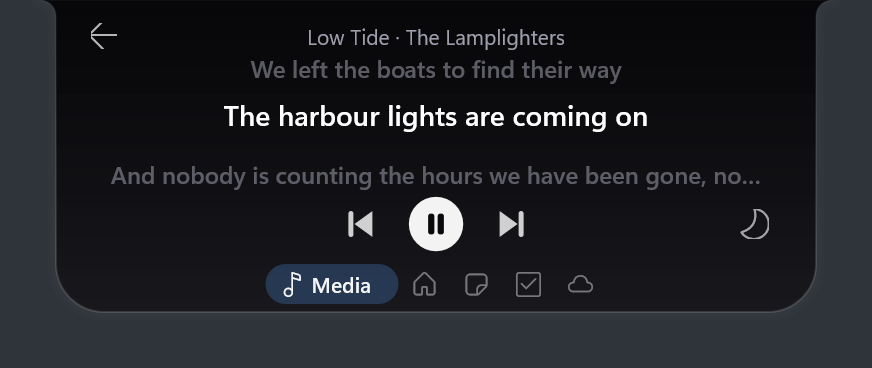
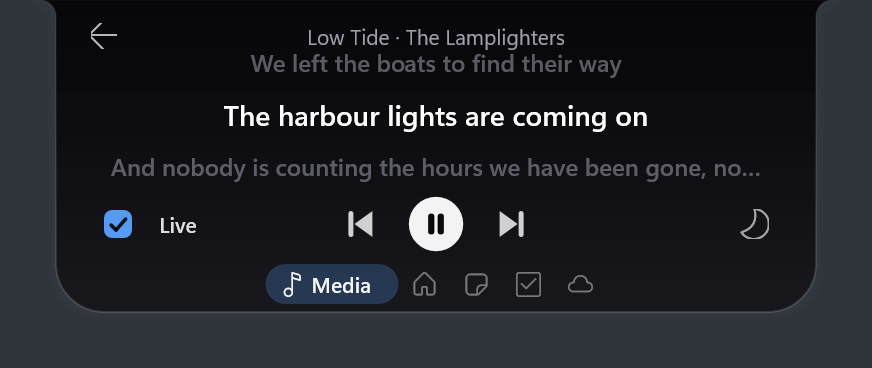
docs: panes in any order, the wider place search, Live lyrics, More settings; skin row in Look and feel; version 1.7.0

diff --git a/crates/hytte/src/render/settings_table.rs b/crates/hytte/src/render/settings_table.rs
@@ -304,6 +304,21 @@ pub fn settings_table(c: &Config) -> Vec<Section> {
                     0,
                 ),
                 (
+                    pick_s(
+                        "Pill skin",
+                        "general.skin",
+                        &[
+                            ("Graphite", "graphite"),
+                            ("Aurora", "aurora"),
+                            ("Ember", "ember"),
+                            ("Moss", "moss"),
+                            ("Dusk", "dusk"),
+                        ],
+                        &g.skin,
+                    ),
+                    -1,
+                ),
+                (
                     pick_i(
                         "Wait before opening on hover",
                         "general.hover_delay_ms",
@@ -451,21 +466,6 @@ pub fn settings_table(c: &Config) -> Vec<Section> {
                         g.finish_peek_secs as i64,
                     ),
                     1,
-                ),
-                (
-                    pick_s(
-                        "Pill skin",
-                        "general.skin",
-                        &[
-                            ("Graphite", "graphite"),
-                            ("Aurora", "aurora"),
-                            ("Ember", "ember"),
-                            ("Moss", "moss"),
-                            ("Dusk", "dusk"),
-                        ],
-                        &g.skin,
-                    ),
-                    -1,
                 ),
                 (
                     sw(

diff --git a/docs/06-ui-model.md b/docs/06-ui-model.md
@@ -21,6 +21,7 @@ Parts: **`UiEvent`** (worker → UI messages), **`Model`** (what the pill knows)
 | `Calendar(Option<NextEvent>)` | calendar watcher | `set_calendar`: arms the heads-up. |
 | `DragEnter` / `DragLeave` | OLE drop target | `drop_over`: the purple drop zone. |
 | `Places(seq, query, result)`, `Forecast(result)` | weather workers | `places_result` (dropped if the field no longer holds `query`, or `seq` is old), `forecast_result` (dropped for a place since changed). |
+| `WidePlaces(seq, query, result)` | wider place search | `wide_result`: kept in a small session cache; dropped if the field changed. |
 | `Lyrics(key, result)` | lyrics worker | `lyrics_result`: cached; shown only if `key` is still the song on screen. |
 
 ## `Model`: the state
@@ -40,16 +41,16 @@ Parts: **`UiEvent`** (worker → UI messages), **`Model`** (what the pill knows)
 | Notes and to-do | `jot` (the `jot::Store`), `jot_dirty` (the window layer saves), `typing: Option<Field>`, `note_edit` / `todo_edit` / `place_edit` (`textedit::TextEdit`), `note_keep`, `jot_edit` (an existing item being edited), `jot_undo`, `jot_first` |
 | Weather | `weather_place`, `forecast`, `weather_busy` / `weather_err` / `weather_retry`, `choosing`, `places`, `place_sel`, `places_busy` / `places_err` / `places_for`, `imperial` |
 | Focus and breaks | `held` (`Held` counts), `focus_summary`, `nudge` (`Nudge { kind, since }`); `holding()` is true while a Focus timer exists (paused too) |
-| Media extras | `sleep`, `sleep_open`, `lyrics_open`, `lyrics_on`, `lyric_key`, `lyric_state`, `lyric_cache` (last 20), `lyric_first` |
+| Media extras | `sleep`, `sleep_open`, `lyrics_open`, `lyrics_on`, `lyrics_still` (`[media] lyrics_live` off), `lyric_key`, `lyric_state`, `lyric_cache` (last 20), `lyric_first` |
 | Look | `skin` (`skin::Skin`), `panes` (`[panes]`) |
 
 `TaskView` is a task's display form: label, event, progress, stderr lines, pid, `attention` message, `source`, `cwd` (a `run` / `shell` task with a folder is `rerunnable()`), and instants `started`, `changed`, `visible_after`.
 
 ## Panels
 
-`Model::panels()` lists panels with content, **in order**: **Shelf** (not empty), **Media** (a session exists), **Home** (always: mic, sound, keep-awake, timer tiles and volume bar), **Notes**, **To-do** and **Weather** (each unless switched off in `[panes]`), **Tasks** (a visible task or a listening server, shown as **SERVERS**), **Timer** (running), **Power** (has a battery). With the three optional panes on, the tab strip always shows.
+`Model::panels()` lists panels with content, **in order**: **Shelf** (not empty), **Media** (a session exists), **Home** (mic, sound, keep-awake, timer tiles and volume bar), **Notes**, **To-do** and **Weather**, **Tasks** (a visible task or a listening server, shown as **SERVERS**), **Timer** (running), **Power** (has a battery). Every one has a switch in `[panes]` (`home`, `media`, `shelf`, `tasks`, `timer`, `power`, `notes`, `todo`, `weather`), and the result is sorted by `[panes] order` (`Panel::arranged`; panes the list does not name keep their usual place after those it does). The list is never empty: with everything off, Home stays. `move_pane` rewrites the order for the arrows in the settings window.
 
-- `panel()` is the selected panel if it still exists, else what the collapsed pill shows (Tasks if a task is visible, Media if music plays), else Home. Attention wins: a task that needs input or finishes `peek`s its pane, which selects it.
+- `panel()` is the selected panel if it still exists, else what the collapsed pill shows (Tasks if a task is visible, Media if music plays), else Home, else the first panel left when those are switched off. Attention wins: a task that needs input or finishes `peek`s its pane, which selects it.
 - `tabs()` is true with more than one panel (the tab strip is drawn only then). `step_panel(dir)` moves with wrap-around (sideways scroll, arrows).
 
 ## Choosing the scene
@@ -89,10 +90,10 @@ Parts: **`UiEvent`** (worker → UI messages), **`Model`** (what the pill knows)
 | `ExpShelf` | 380 × 118 (136 with a tile selected) |
 | `ExpTimer` | 380 × 96 running, 152 setup card |
 | `ExpDrop` / `ExpChip` / `ExpTimerDone` | 380 × 116 / 96 (80 for a one-line card) / 114 |
-| `ExpCharge` / `ExpSettings` | 300 × 52 / 380 × 216 (no tab strip) |
+| `ExpCharge` / `ExpSettings` | 300 × 52 / 380 × 252 (no tab strip) |
 | `ExpNudge` | 360 × 56 (no tab strip) |
 | `ExpNotes` / `ExpTodo` | 380 × (12 + 34 field + 8 + 30 per row shown, 1 to 4, plus one for the Undo row, + 8) + tab strip; the wheel scrolls longer lists (`JOT_ROWS` = 4) |
-| `ExpWeather` | 380 × 148 with a forecast, 120 while loading, `38 + 34 + 4 + 28 × suggestions + 8` for the place chooser, + tab strip |
+| `ExpWeather` | 380 × 148 with a forecast, 120 while loading, `38 + 34 + 4 + 28 × suggestions + 8` for the place chooser (one more row while "search more widely" is offered, 16 more under OpenStreetMap results), + tab strip |
 | `ExpTimerDone` with a focus summary | 380 × 134 instead of 114 |
 
 Panels that show the tab strip get `TAB_H` (24 px) more.
@@ -229,7 +230,7 @@ While `Model::holding()`, background alerts are counted in `Held` instead of sho
 
 `sleep::Sleep` is the pure timer (minutes, or end of track following the player's reports and firing when the song changes). `Ui::sleep_tick` starts `sleep::start_fade` in the last 20 seconds: a thread that lowers the player's own audio session volume once a second, pauses it with `media::Cmd::Pause`, and puts the volume back. `pick_exe` matches the media app id to an audio session by exe name. The original volume is written to `sleep-restore.txt` for the fade, so `sleep::recover` can restore it after a crash. The fade thread initialises COM itself.
 
-`lyrics.rs` parses LRC text and judges lrclib's answers against the song's length (timed lyrics within 3 s, words only within 10 s). `Model::lyrics_request` decides when to look up (page open, `[media] lyrics` on, a song, nothing known yet); `Ui::lyrics_tick` runs `lyrics::lookup` on a worker and `lyrics_result` caches the answer in memory.
+`lyrics.rs` parses LRC text and judges lrclib's answers against the song's length (timed lyrics within 3 s, words only within 10 s). With timed lyrics the page glides: the renderer takes the play position, eases the list from the previous line to the current one over 520 ms after the line starts, and cross-fades each line between the small and the large font by distance from the middle. It is computed from the position alone, so it needs no state and no frames beyond the Media pane's existing clock. `lyrics_still` (or no timed lyrics) shows the words as a plain list; `lyric_rows` says how many lines the wheel can scroll. `Model::lyrics_request` decides when to look up (page open, `[media] lyrics` on, a song, nothing known yet); `Ui::lyrics_tick` runs `lyrics::lookup` on a worker and `lyrics_result` caches the answer in memory.
 
 ## Skins
 

diff --git a/docs/07-window-and-input.md b/docs/07-window-and-input.md
@@ -59,7 +59,7 @@ Key methods: `layout()` (scene from the model; sets every spring target); `kick(
 | `WM_HOTKEY` | `hotkey`: enter or leave [keyboard mode](#keyboard). `monitor_hotkey` (id 2): `Ui::next_monitor`. |
 | `WM_KEYDOWN` / `WM_KILLFOCUS` | Keyboard mode keys (Esc, Left/Right, Tab, Enter/Space) / ends keyboard mode (and typing) without taking focus back. While a text field has focus, `WM_KEYDOWN` goes to `Ui::typing_key` instead. |
 | `WM_CHAR` | A typed character (UTF-16 unit; an emoji arrives as two) into the focused text field, via `Ui::type_char`. |
-| `WM_MOUSEWHEEL` | Over the volume bar or **Sound** tile: volume, 2 % a notch. Over an app's bar: that app. Over the shelf row: scrolls a tile per notch. Over a task list with more rows than `task_rows`: a row per notch (at either end the wheel pages again). On the timer card: minutes. Otherwise a mouse wheel (whole 120 notches) pages the panes (down = next), not while the settings pane is open. A precision touchpad's vertical scroll (fractional deltas, as do free-spin wheels) does nothing there, so a two-finger scroll can't flip panes. |
+| `WM_MOUSEWHEEL` | Over the volume bar or **Sound** tile: volume, 2 % a notch. Over an app's bar: that app. Over the shelf row: scrolls a tile per notch. Over a task list with more rows than `task_rows`: a row per notch (at either end the wheel pages again). On the timer card: minutes. Otherwise a mouse wheel (whole 120 notches) pages the panes (down = next), not while the settings pane is open. A precision touchpad's vertical scroll (fractional deltas, as do free-spin wheels) does nothing there, so a two-finger scroll can't flip panes. On the lyrics page a notch moves a line, and a touchpad needs 600 units of scroll per line (`Ui::lyric_wheel`) so its stream of small deltas and its coasting don't fling the page. |
 | `WM_MOUSEHWHEEL` | Touchpad swipe or tilt wheel: next pane right, previous left, one per swipe; a collapsed pill peeks 3 s. |
 | `WM_SETCURSOR` | Hand cursor over clickable regions. |
 | `WM_LBUTTONDOWN` | On a shelf tile: remember it, capture the mouse for a drag. On the volume bar or timeline: set there and capture for dragging (`scrub`). |
@@ -91,11 +91,12 @@ All are one-shot Win32 timers (the handler kills the timer first).
 | `T_COLLAPSE` | `collapse_delay_ms` (300) | Pointer leaves while open | If still outside and not pinned: `hover = false`, timer card and settings pane close, `start_panel` applied. Re-entering in time cancels it. |
 | `T_EXPIRE` | Until the model's next deadline | After every model change | `after_model_change` (calls `Model::expire`). |
 | `T_TIMER` | ≤ 1 s | Countdown timer running | Redraws the fuse; fires the timer at zero. |
-| `T_FS` | 150 ms | Foreground change or move | Follows the monitor, re-evaluates fullscreen, re-asserts topmost (not over a game), follows the virtual desktop. |
+| `T_FS` | 150 ms | Foreground change or move | Follows the monitor, re-evaluates fullscreen (not while Hytte holds focus for typing or keyboard mode: Hytte in front says nothing about the app under it, and reading it as "no fullscreen" used to collapse the pill under the click), re-asserts topmost (not over a game), follows the virtual desktop. |
 | `T_TRIM` | 30 s | A frame finds nothing moving | If still settled, trims the working set ([section 12](12-performance.md)). |
 | `T_GPU` | 1 s doubling to 30 s | GPU rebuild failed | Retries `rebuild_gpu` ([section 8](08-rendering-and-animation.md#the-gpu-renderer)). |
 | `T_CARET` | 530 ms | A text field takes focus, and after every blink | Toggles the caret and re-arms, while a field has focus; otherwise leaves it shown and stops. |
 | `T_PLACE` | 250 ms | The weather place field changed | Runs the place search for what is typed (`Ui::place_search`). |
+| `T_WIDE` | 2 s | Open-Meteo answered a place search with nothing | Offers "search more widely" (`Ui::wide_offer_due`) if the field still holds that text. Typing cancels it. |
 | `T_SHOT` | 60 ms while a screenshot awaits Ctrl+V (`delete_after_paste`, ≤ 10 min), else 1 s while screenshots are on the shelf and `screenshot_secs` ≠ 0 | A screenshot was shelved | `Ui::tick_shots`: removes expired and pasted screenshots; re-arms while any is pending. |
 
 ## Clicks and actions
@@ -116,7 +117,8 @@ While drawing, the renderer records **hit regions** (`Hit { rect, action }`, [se
 | `TimerMinutes`, `TimerNudge`, `TimerStart`, `TimerBreak`, `TimerAdd`, `TimerPause`, `TimerStop`, `TimerDismiss` | Timer controls (preset, − / +, start timer or focus, offered break, **+5** (on the finished card, a new 5 min timer), ring pause/resume, Stop, Stop alarm / Dismiss). Changes to a running timer save to `timer.json`. |
 | `SetPowerMode` | Sets the Windows power mode. |
 | `Field(f)`, `NoteKeep`, `ToggleJot`, `EditJot`, `KeepJot`, `DeleteJot`, `UndoJot` | Focus a text field and place the caret / the 24 h / Keep switch / tick a to-do / edit an item in the field / keep a temporary note / delete (Undo for 6 s). |
-| `PickPlace`, `ChangePlace`, `CancelPlace`, `RetryWeather` | Weather: choose a suggestion, open the chooser, close it, fetch again. |
+| `PickPlace`, `ChangePlace`, `CancelPlace`, `RetryWeather`, `SearchWide` | Weather: choose a suggestion, open the chooser, close it, fetch again, run the OpenStreetMap search the user asked for. |
+| `PaneMove(key, ±1)` | Settings window only: move a pane in `[panes] order` (written with `config::set_text`). |
 | `NudgeSnooze`, `NudgeSkip` | Break reminder: ten minutes later / done. |
 | `SleepMenu`, `SleepSet`, `SleepCancel`, `LyricsOpen`, `LyricsClose`, `LyricsRetry` | The Media pane's sleep timer chips and lyrics page. |
 

diff --git a/README.md b/README.md
@@ -25,13 +25,14 @@ It never steals focus, idles at almost no CPU, and uses under 20 MB of RAM. It i
 - **Shows dev servers.** Anything on `localhost:3000`, `5173`, `8080` and friends appears with **Open**, **Stop** and, for servers started from a tracked command, **Restart**.
 - **Holds files (the shelf).** Drop files or text on the pill, switch windows, drag them back out. Win+Shift+S screenshots land there too.
 - **Quick file actions.** Shrink an image, make a PDF, strip location data, OCR, tidy JSON, decode a JWT, timestamp, base64, URL or hex colour, make a QR code.
-- **Controls music**, with a draggable timeline, lyrics and a sleep timer ("stop playing in 30 min") that fades the volume out.
+- **Controls music**, with a draggable timeline, lyrics that glide line by line (a **Live** tick box turns that off) and a sleep timer ("stop playing in 30 min") that fades the volume out.
 - **Quick controls.** Mute all microphones (red lock on the pill), mute speakers, keep the PC awake, per-app volume.
 - **Timer and focus sessions.** Countdown or Pomodoro. A focus session turns on Windows Do Not Disturb, holds Hytte's own alerts and tells you what you missed in one line; collapsed, it shows as a thin line along the pill.
 - **Notes and a to-do list.** Type something and press Enter; a note lasts 24 hours or is kept. A hotkey opens Notes with the cursor ready.
-- **Weather.** Pick a town (suggestions as you type) and see now plus the next hours. Nothing is fetched while the pane is closed.
+- **Weather.** Pick a town (suggestions as you type; if none match, one click searches OpenStreetMap) and see now plus the next hours. Nothing is fetched while the pane is closed.
 - **Break reminders.** Eyes (20-20-20), stretch and water nudges as a small card on the pill, never a popup, and never in a meeting, a game or a focus session.
-- **Skins.** Five colour themes for the pill.
+- **Skins.** Five colour themes for the pill (Settings → Look and feel).
+- **Your panes, your order.** Switch any pane off and arrange the tab strip in Settings → Panes.
 - **Alerts.** Browser downloads, runaway CPU or memory hogs (**Kill** / **Ignore**), your next meeting (optional, **Join** button), camera and mic dots, battery and power mode on laptops.
 - **Gets out of the way.** A game or fullscreen app makes it vanish and stop touching input (no FPS cost). A maximised or snapped window, or fullscreen video, shrinks it to a hairline.
 - **Safe to share.** One setting (`hide_from_capture`) keeps it out of screenshots, recordings and calls, and tokens or passwords in a command show as `•••`. New installs show the pill in screenshots; installs from before 1.7 keep whatever they had.
@@ -205,15 +206,23 @@ show_all = false
 enabled = false           # off by default: event titles are private
 
 [panes]
-notes = true              # tabs in the pill; switch any off
+home = true               # tabs in the pill; switch any off
+media = true
+shelf = true
+tasks = true
+timer = true
+power = true
+notes = true
 todo = true
 weather = true
+order = ""                # set by the arrows in Settings → Panes
 
 [weather]
 units = "auto"            # "auto" (follow Windows), "metric" or "imperial"
 
 [media]
 lyrics = false            # looks songs up on lrclib.net (sends title and artist)
+lyrics_live = true        # follow the song line by line when the lyrics are timed
 
 [breaks]
 eyes_min = 0              # minutes between reminders; 0 = off

diff --git a/docs/13-testing-and-release.md b/docs/13-testing-and-release.md
@@ -23,7 +23,7 @@ Off Windows see [section 2](02-getting-started.md#working-from-macos-or-linux): 
 | `hog.rs`, `downloads.rs`, `calendar.rs`, `power.rs`, `proc.rs`, `media.rs`, `privacy.rs` | CPU-over-time and once-only alerts; Chrome and Firefox partial-file sequences and cancels; meeting links (lookalike hosts refused), next-event choice; safe reads and text; app ids; art decoding; key → app name. |
 | `window/win.rs` | `paste_step`, the decision behind delete-screenshot-after-paste (grace period, cancel on other copy, held Ctrl+V, none in game mode, ten-minute limit). |
 
-New in 1.7.0: `textedit` (caret, selection, joined emoji), `jot` (expiry, undo, a damaged file), `weather` (parsers on sample replies, every weather code), `net` (encoding), `lyrics` (LRC, replies, a different master), `sleep` (the timer, finding the player, the fade curve), `breaks` (every reminder rule), `skin`, `dnd` (the marker text) and the new `ui_state` tests (holds, nudges, lyrics requests, panes). The ignored tests `dnd::real_switch_round_trips`, `sleep::manual_sessions` and `sleep::manual_fade` use the real Windows setting, audio sessions and a real player (`HYTTE_SLEEP_APP=Spotify.exe`). Snapshot tests `jot_snapshots`, `weather_snapshots`, `focus_snapshots`, `media_snapshots` and `skin_snapshots` draw the new panes in every state.
+New in 2.0.0 (the panes release): `textedit` (caret, selection, joined emoji), `jot` (expiry, undo, a damaged file), `weather` (parsers on sample replies, every weather code), `net` (encoding), `lyrics` (LRC, replies, a different master), `sleep` (the timer, finding the player, the fade curve), `breaks` (every reminder rule), `skin`, `dnd` (the marker text) and the new `ui_state` tests (holds, nudges, lyrics requests, panes, pane order, the wider place search). The ignored test `weather::wide_finds_sri_city` asks OpenStreetMap for a place Open-Meteo lacks. The ignored tests `dnd::real_switch_round_trips`, `sleep::manual_sessions` and `sleep::manual_fade` use the real Windows setting, audio sessions and a real player (`HYTTE_SLEEP_APP=Spotify.exe`). Snapshot tests `jot_snapshots`, `weather_snapshots`, `focus_snapshots`, `media_snapshots` and `skin_snapshots` draw the new panes in every state.
 
 Ignored tests (run with `-- --ignored`): `render/snap.rs` draws the scenes offscreen (WARP, 200 %, both themes where it matters) into PNGs plus an `index.html` contact sheet, for checking UI changes without running the pill: `HYTTE_SNAP_DIR=<dir> cargo test -p hytte snapshots -- --ignored` (also runs `settings_window_snapshots`; the screenshots in `docs/img` come from these). Normal tests there check every settings-table row writes a key `config.toml` accepts, no key appears twice, and every reset reads back as the default. Manual tests: `mic` (`lists_live_apps`, and `mute_change_wakes_the_watcher`, which flips the real mute and restores it), `calendar_manual_create` / `_dump` / `_delete` (a throw-away calendar), `tabs` (`HYTTE_WT_PID=<pid> cargo test -p hytte selects_other_tab -- --ignored`, needs Windows Terminal with two tabs).
 

diff --git a/manual/06-everyday-tools.md b/manual/06-everyday-tools.md
@@ -39,7 +39,9 @@ When it ends, an alarm rings for up to two minutes. Choose **Stop alarm** or **+
 
 **Lyrics.** Click **Lyrics** on the Media pane. The page shows the line being sung with the line before and after. They are off until you turn them on (the page has a **Turn on** button, and there is a switch in [Settings](07-settings.md)), because looking a song up sends its title and artist to [lrclib.net](https://lrclib.net), a free lyrics database. Nothing is looked up unless the page is open, and Hytte keeps lyrics only in memory, for the last 20 songs.
 
-If the database has the words but for a different recording of the song, you see them without timing, scrolling with the mouse wheel.
+With timed lyrics the lines glide smoothly from one to the next. The **Live** tick box at the bottom left turns that off, so you see the words to scroll through instead (the choice is kept; it is `[media] lyrics_live`). **Live** is greyed out and does nothing for songs that have no timed lyrics.
+
+If the database has the words but for a different recording of the song, you see them without timing, scrolling with the mouse wheel. A touchpad moves one line per long stretch of two-finger scroll, so the page doesn't fly past.
 
 **Sleep timer.** Click the moon, then pick 15, 30, 45 or 60 minutes, or **End of track**. In the last 20 seconds the volume of that player fades out, then it pauses, then its volume is put back, so tomorrow's first song isn't silent. Pausing yourself doesn't cancel it. Click the moon again to cancel. Closing Hytte forgets the timer.
 
@@ -74,6 +76,10 @@ The same field adds a to-do. Click the box to tick it: it moves to the bottom an
 <img src="../docs/img/weather.png" alt="The Weather pane" width="300"> <img src="../docs/img/weather-ask.png" alt="Choosing a place" width="300">
 
 The first time, the pane asks where to check. Type a town and suggestions appear as you type; use the arrow keys and **Enter**, or click one. You then see the temperature now, today's high and low, and the next five hours. Click the town's name to choose another place.
+
+Not finding your town? If nothing matches for about two seconds, a row appears: **Search more widely for "your town"**. Click it (or press **Enter**) and Hytte asks [OpenStreetMap](https://www.openstreetmap.org) once, which knows many smaller places. Its answers are listed with a credit line, and the same search isn't repeated in a session. Nothing is sent to OpenStreetMap unless you click.
+
+<img src="../docs/img/weather-wide.png" alt="The search more widely row" width="300">
 
 Weather is fetched only when you open the pane and what Hytte has is over 30 minutes old, so a closed pill makes no requests. It comes from [Open-Meteo](https://open-meteo.com) (free for non-commercial use, which is why the pane credits it). Searching sends what you type to Open-Meteo; the forecast sends the town's coordinates. Hytte keeps your place in `place.json` and asks Windows for nothing. Temperatures follow your Windows measurement setting, or `[weather] units`.
 

diff --git a/docs/09-workers.md b/docs/09-workers.md
@@ -19,7 +19,7 @@ Each worker watches one part of the system and reports changes to the UI thread 
 | Config | `config.rs` | Directory change notification | `Config` ([section 11](11-configuration-and-files.md#live-reload)) |
 | Terminal tabs | `tabs.rs` | Command channel | none (answers commands) |
 | Thumbnails | `shelf.rs` | One short-lived thread per tile | `Thumb` |
-| Place search, forecast | `weather.rs` | One short-lived thread per request, only while the Weather pane is showing | `Places`, `Forecast` |
+| Place search, forecast | `weather.rs` | One short-lived thread per request, only while the Weather pane is showing | `Places`, `WidePlaces`, `Forecast` |
 | Lyrics | `lyrics.rs` | One short-lived thread per song, only with the lyrics page open | `Lyrics` |
 | Sleep fade | `sleep.rs` | One thread from the fade's start to the pause (≤ 20 s) | none |
 
@@ -121,7 +121,7 @@ For each visible shelf tile without one, `Ui::request_thumbs` starts a short-liv
 
 `net::fetch(url, out, secs, max_bytes)` runs System32's `curl.exe` by absolute path (no HTTP stack is linked), HTTPS only in release builds, with a User-Agent of `hytte/<version>`; the updater, the weather and the lyrics all use it. `net::encode` percent-encodes query values as UTF-8.
 
-**Weather** uses Open-Meteo's geocoding and forecast endpoints (free for non-commercial use, CC BY 4.0, which is why the pane credits it). Nothing runs while the pane is closed. **Lyrics** use lrclib.net: `/api/get` with title, artist, album and length, then with title and artist alone, then `/api/search`. A 404 is "no such song"; any other failure is "can't reach".
+**Weather** uses Open-Meteo's geocoding and forecast endpoints (free for non-commercial use, CC BY 4.0, which is why the pane credits it). Nothing runs while the pane is closed. **The wider place search** uses OpenStreetMap's Nominatim (`weather::fetch_wide`, ODbL, credited under its results). Its usage policy forbids search-as-you-type, so it runs only when the user clicks or presses Enter on the "search more widely" row, which appears two seconds after Open-Meteo found nothing; answers are cached for the session, and the User-Agent names the app. **Lyrics** use lrclib.net: `/api/get` with title, artist, album and length, then with title and artist alone, then `/api/search`. A 404 is "no such song"; any other failure is "can't reach".
 
 ## The sleep fade (`sleep.rs`)
 

diff --git a/manual/07-settings.md b/manual/07-settings.md
@@ -2,18 +2,22 @@
 
 ## The settings pane
 
-Click the **gear** on the Home pane. The pane covers the common settings, such as theme, opacity, glow and feature switches.
+Click the **gear** on the Home pane (or, if you have hidden Home, the tray icon → **Settings…**). The pane covers the common settings, such as theme, opacity, glow and feature switches. The blue **More settings** button at its bottom opens the full window.
 
 <img src="../docs/img/settings-pane.png" alt="The settings pane inside the pill" width="420">
 
 ## The settings window
 
-The button at the top right of the pane opens the full window. It has every switch and slider.
+The **More settings** button on the settings pane opens the full window; so does tray → **Settings…**. It has every switch and slider.
 
 - **Type** to search.
 - **Rest the pointer** on a setting for an explanation.
 - **Custom** opens `config.toml` at that setting, for a value the presets don't have.
 - **↺** puts a changed setting back to its default.
+
+### Choosing and ordering panes
+
+The **Panes** section lists every pane: Quick controls, Music, Shelf, Terminal tasks, Timer, Battery, Notes, To-do and Weather. Each has a switch, and the **▲ ▼** buttons move it along the tab strip. Panes that only appear when they have something to show (Music, Shelf, Timer, Battery, Terminal tasks) keep their place in the order for when they do. If you switch everything off, the Quick controls stay so the pill is never empty.
 
 <img src="../docs/img/settings-window.png" alt="The settings window" width="560">
 
@@ -53,15 +57,23 @@ show_all = false
 enabled = false           # off by default: event titles are private
 
 [panes]
-notes = true              # switch a pane's tab off here
+home = true               # switch any pane's tab off here
+media = true
+shelf = true
+tasks = true
+timer = true
+power = true
+notes = true
 todo = true
 weather = true
+order = ""                # tab order, set by the arrows in the settings window
 
 [weather]
 units = "auto"            # "auto" (follow Windows), "metric" or "imperial"
 
 [media]
 lyrics = false            # looks songs up on lrclib.net
+lyrics_live = true        # follow the song line by line when the lyrics are timed
 
 [breaks]
 eyes_min = 0              # minutes between reminders; 0 = off

diff --git a/docs/16-whats-new.md b/docs/16-whats-new.md
@@ -2,7 +2,27 @@
 
 What changed in each version, newest first. Each version ends with a short note for people who change Hytte.
 
-## 1.7.0
+## 2.0.0
+
+This is the panes release. It carries everything that was planned as 1.7 (that number was never released), so it also includes the 1.6.1 change that releases are no longer signed.
+
+**Choosing and ordering panes**
+
+- **Every pane has a switch and a place.** `[panes]` now has `home`, `media`, `shelf`, `tasks`, `timer` and `power` besides `notes`, `todo` and `weather`, and the settings window's **Panes** section lists all nine with **▲ ▼** to put them in your order (`[panes] order`). The tab strip never empties: with everything off, the quick controls stay.
+- **The Pill skin row moved to Look and feel** (it was hidden under Behaviour).
+- **Tray → Settings…** opens the settings window, so hiding the Home pane never hides the settings.
+- **The settings pane has a clear blue "More settings" button** that opens the settings window, instead of an icon nobody read as that. The window's search box now shows that it has focus (border and caret).
+
+**Weather and lyrics, refined**
+
+- **Search more widely.** If Open-Meteo finds nothing for two seconds, a row offers an OpenStreetMap search, run once when you click it, credited, and cached for the session. It finds places such as Sri City that Open-Meteo lacks.
+- **Live lyrics glide** from line to line instead of switching. A **Live** tick box (`[media] lyrics_live`) turns that off for a scrolling list, and it is greyed out for songs without timed lyrics. Touchpad scrolling on the lyrics page is slower and steadier.
+
+**Fixed**
+
+- **Typing in Notes or To-do over a fullscreen or maximised app no longer collapses the pill.** Hytte taking focus made the fullscreen check think no app was fullscreen; the check now waits until focus is handed back.
+
+**The first panes build**
 
 **New panes**
 

diff --git a/docs/12-performance.md b/docs/12-performance.md
@@ -6,10 +6,10 @@ Hytte runs all day beside everything else, so idle cost matters more than peak s
 
 | Budget | Target | Last measured (1.6.0 release build, default settings, fresh data folder; frame cost from 1.3.0) |
 |---|---|---|
-| Idle CPU, collapsed, nothing playing | < 1 % | ≈ 0.26 % of one core (78 ms CPU in 30 s, after 45 s settling), 0.36 % with a Focus session running (109 ms); 1.7.0 with every feature on, 120 stored notes, a skin and all three break reminders enabled |
-| Idle memory | < 30 MB goal, 100 MB ceiling | ≈ 10.1 MB private bytes; working set ≈ 5.7 MB after the trim; 32 threads, ~404 handles (1.7.0, same setup) |
+| Idle CPU, collapsed, nothing playing | < 1 % | ≈ 0.26 % of one core (78 ms CPU in 30 s, after 45 s settling), 0.36 % with a Focus session running (109 ms); 2.0.0 with every feature on, 120 stored notes, a skin and all three break reminders enabled |
+| Idle memory | < 30 MB goal, 100 MB ceiling | ≈ 10.1 MB private bytes; working set ≈ 5.7 MB after the trim; 32 threads, ~404 handles (2.0.0, same setup) |
 | Animation | Refresh rate during transitions only | vsync-paced; parks when settled |
-| Frame cost with a running task, 1.7.0 | well under one refresh period | draw + present p50 ≈ 0.9-1.0 ms, p99 ≈ 1.9-3.2 ms (60 Hz, 200 % scaling, WARP, the full tab strip) |
+| Frame cost with a running task, 2.0.0 | well under one refresh period | draw + present p50 ≈ 0.9-1.0 ms, p99 ≈ 1.9-3.2 ms (60 Hz, 200 % scaling, WARP, the full tab strip) |
 | Frame cost while a spring moves | well under one refresh period | draw + present p50 ≈ 2.0 ms, p99 ≈ 2.5–5.8 ms with a spinner in the open pill (60 Hz, 200 % scaling, WARP); draw alone p50 ≈ 1.8 ms; a period is 16.6 ms |
 
 Release builds use `lto = true` and `codegen-units = 1` (root `Cargo.toml`).

diff --git a/docs/11-configuration-and-files.md b/docs/11-configuration-and-files.md
@@ -126,9 +126,11 @@ Hytte writes `config.toml` only to create it on first run (`config::save`), for 
 | `[calendar] enabled` / `lead_min` | `false` / `10` | Heads-up before the next event (off by default: titles are private; switching on starts reading; off drops heads-ups until restart) / minutes before the start. |
 | `[timer] sound` | `true` | Ring when a timer ends until **Stop alarm** (2 min max). |
 | `[timer] focus_dnd` | `true` | A Focus session turns on Windows Do Not Disturb and puts it back ([section 9](09-workers.md#do-not-disturb-dndrs)). Hytte holds its own alerts during Focus either way. |
-| `[panes] notes` / `todo` / `weather` | `true` | Show that pane's tab. |
+| `[panes] home` / `media` / `shelf` / `tasks` / `timer` / `power` / `notes` / `todo` / `weather` | `true` | Show that pane's tab (Music, Shelf, Tasks, Timer and Battery still only when they have something to show). With all off, Home stays. |
+| `[panes] order` | `""` | The tab order as names ("home,media,..."). Set by the arrows in the settings window; names left out keep their usual place after those listed. |
 | `[weather] units` | `"auto"` | `"auto"` (the Windows measurement setting), `"metric"` or `"imperial"`. |
 | `[media] lyrics` | `false` | Look songs up on lrclib.net while the lyrics page is open (sends title and artist). |
+| `[media] lyrics_live` | `true` | Follow the song line by line when the lyrics are timed; off shows the words as a list. |
 | `[breaks] eyes_min` / `stretch_min` / `water_min` | `0` / `0` / `0` | Minutes between each reminder; 0 = off. |
 | `[timer] break_min` / `long_break_min` / `rounds` | `5` / `15` / `2` | Short and long break lengths; every `rounds`-th Focus is followed by a long break, and a Focus or Break timer shows that many round dots. |
 

diff --git a/manual/02-the-pill.md b/manual/02-the-pill.md
@@ -10,7 +10,7 @@ The pin in the row of icons keeps it open until you click the pin again.
 
 ## Panes
 
-The icons along the bottom switch between panes. Only panes with something to show appear.
+The icons along the bottom switch between panes. Only panes with something to show appear. You can switch any pane off and put them in your own order in [Settings](07-settings.md#choosing-and-ordering-panes).
 
 | Pane | Shows |
 |---|---|
@@ -61,7 +61,7 @@ Right-clicking the pill opens the timer card.
 | A maximised or snapped window | Shrinks to the thin line. |
 | Fullscreen video | Shrinks to the thin line, so the controls around it stay clickable. |
 
-New installs show the pill in screenshots. If you'd rather keep it out of screenshots, recordings and screen shares, switch on `hide_from_capture` ([Settings](07-settings.md#editing-configtoml)); installs from before 1.7 already have it on. Tokens or passwords in a command show as `•••` either way.
+New installs show the pill in screenshots. If you'd rather keep it out of screenshots, recordings and screen shares, switch on `hide_from_capture` ([Settings](07-settings.md#editing-configtoml)); installs from before 2.0 already have it on. Tokens or passwords in a command show as `•••` either way.
 
 If a game isn't detected, or an app makes Hytte back off when it shouldn't, see [Settings](07-settings.md#fullscreen-apps-and-games).
 
